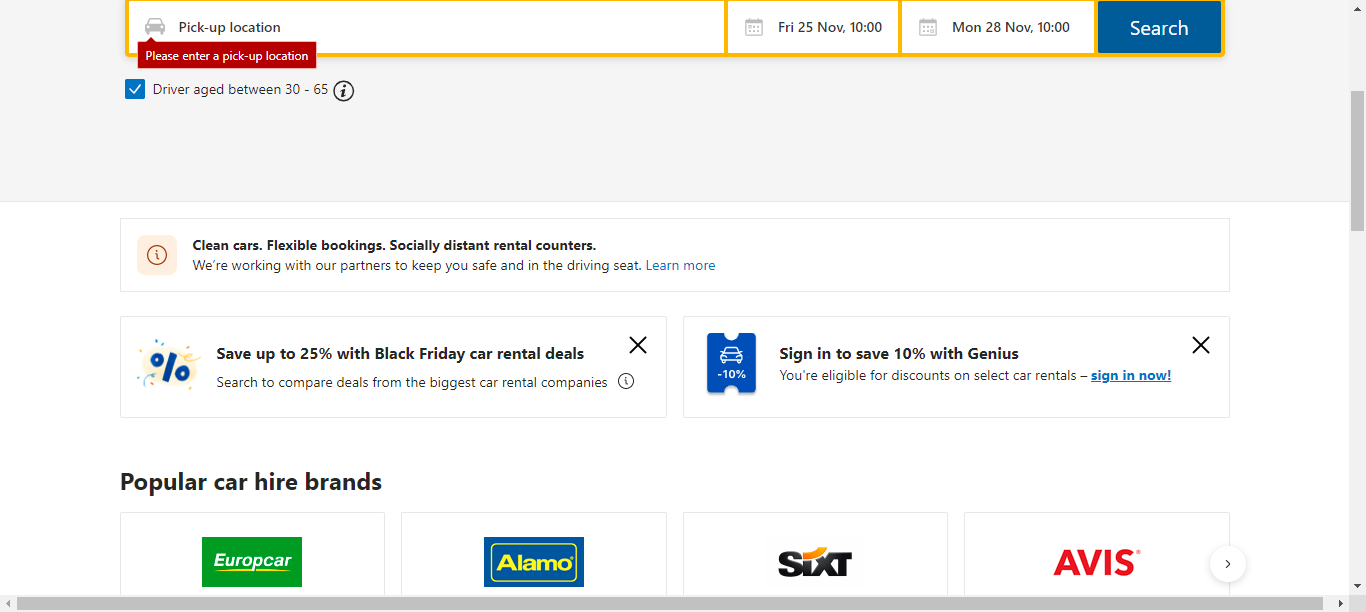
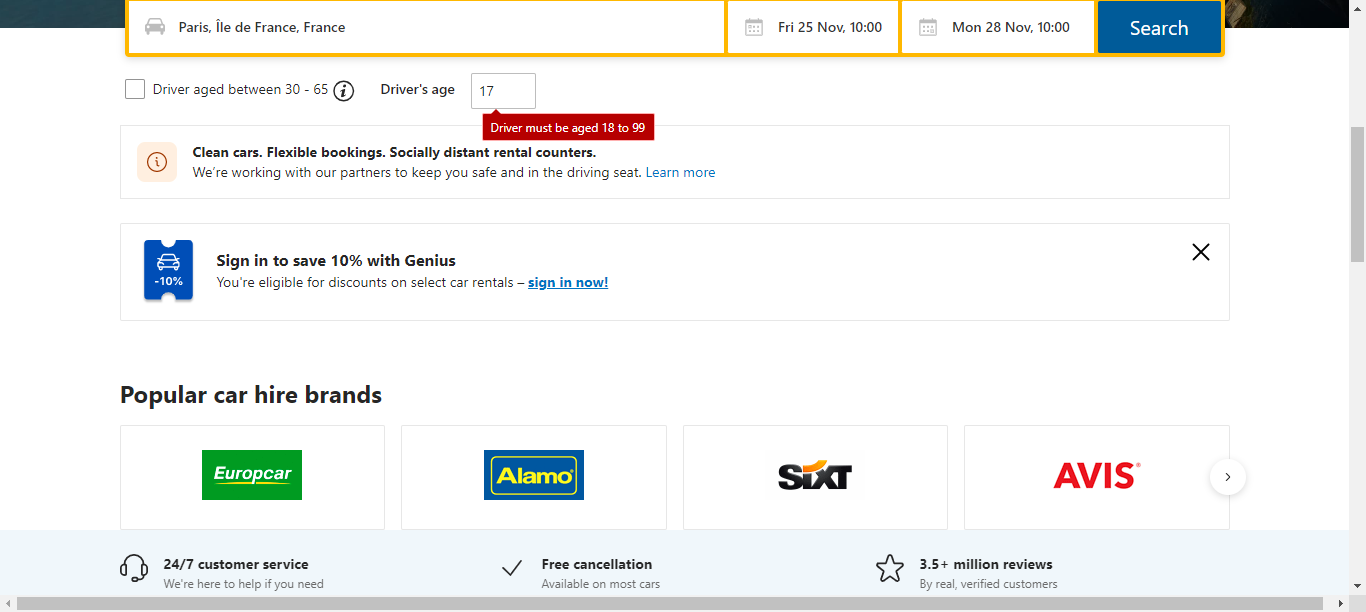
II negative scenarios is added

diff --git a/src/test/java/pages/CarsRentalPage.java b/src/test/java/pages/CarsRentalPage.java
@@ -53,14 +53,32 @@ public class CarsRentalPage extends BasePage {
     @FindBy(xpath = "//div[@data-visible='rentalcars']//div[@data-component='search/destination/input']//div[contains(@class,'fe_banner__message')]")
     WebElement wrongMessageLocation;
 
+    @FindBy(xpath = "//form[@id='frm']//div[contains(@class,'bui-inline-container')]//div[contains(@class,'fe_banner__message')]")
+    WebElement wrongMessageAges;
+
+    @FindBy(xpath = "//span[contains(@class,'bui-checkbox__label')]")
+    WebElement driverAgeBetween;
+
+    @FindBy(css = "#driverAgeInput")
+    WebElement driverAgeBeyond;
+
     public void verifyErrorCarsLocationMessage(String expectedText) throws InterruptedException {
         comparePartOfText(wrongMessageLocation, expectedText);
+    }
+
+    public void verifyErrorAgesMessage(String expectedText) throws InterruptedException {
+        comparePartOfText(wrongMessageAges, expectedText);
     }
 
     public void setPickUpLocation(String location) {
         clickElement(pickUpFiled, "Pickup filed is entered");
         typeText(typeText, location, "Pickup locaton is entered: ");
         clickElement(firstElementBellow, "first element bellow is clicked");
+    }
+
+    public void changeDriversAge(String age){
+        clickElement(driverAgeBetween, "Driver ager check box button is clicked");
+        typeText(driverAgeBeyond,age, "Age is entered");
     }
 
     public void calendarCars() {

diff --git a/src/test/java/steps/BaseSteps.java b/src/test/java/steps/BaseSteps.java
@@ -285,6 +285,16 @@ public class BaseSteps extends BaseTest {
     public void iVerifySearchIsNotPossible() throws InterruptedException {
         CarsRentalPage crp = new CarsRentalPage(driver);
         crp.verifyErrorCarsLocationMessage(data.get("emptyLocatinMessage"));
+    }
+    @And("I choose invalid age")
+    public void iChooseInvalidAge() {
+        CarsRentalPage crp = new CarsRentalPage(driver);
+        crp.changeDriversAge(data.get("driverAges"));
+    }
 
+    @And("I verify ages are beyond of valid range")
+    public void iVerifyAgesAreBeyondOfValidRange() throws InterruptedException {
+        CarsRentalPage crp = new CarsRentalPage(driver);
+        crp.verifyErrorAgesMessage(data.get("wrongAgesMessage"));
     }
 }

diff --git a/README.md b/README.md
@@ -3,17 +3,21 @@
 ### [](https://ibb.co/19vp8jf) ###
 ***
 ***
+## Preconditions
+#### Internet connection ####
+#### Delete cookies and cached memories from web browser ####
+
 ## Instalation
 
-### Google Chrome web browser ###
-### apache-maven-3.8.6 ###
-### Java(TM) SE Runtime Environment (build 1.8.0_202-b08) ###
+#### Google Chrome web browser ####
+#### apache-maven-3.8.6 ####
+#### Java(TM) SE Runtime Environment (build 1.8.0_202-b08) ####
 ## Features
 
-### Booking stays ###
-### Booking flights ###
-### Booking cars ###
+#### Booking stays ####
+#### Booking flights ####
+#### Booking cars ####
 ## Project status
 
-### *Project development progress*
+### Project development progress
 
